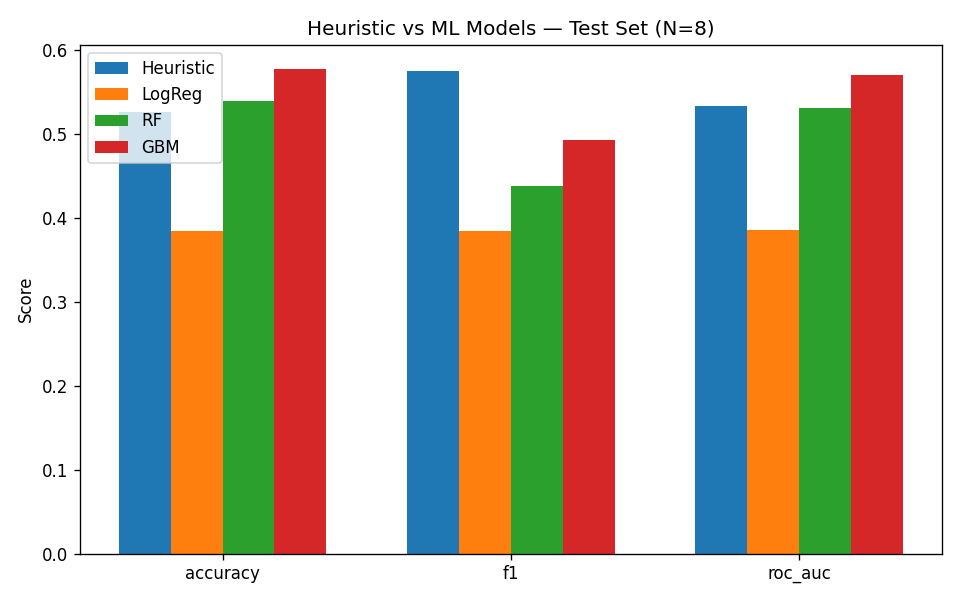
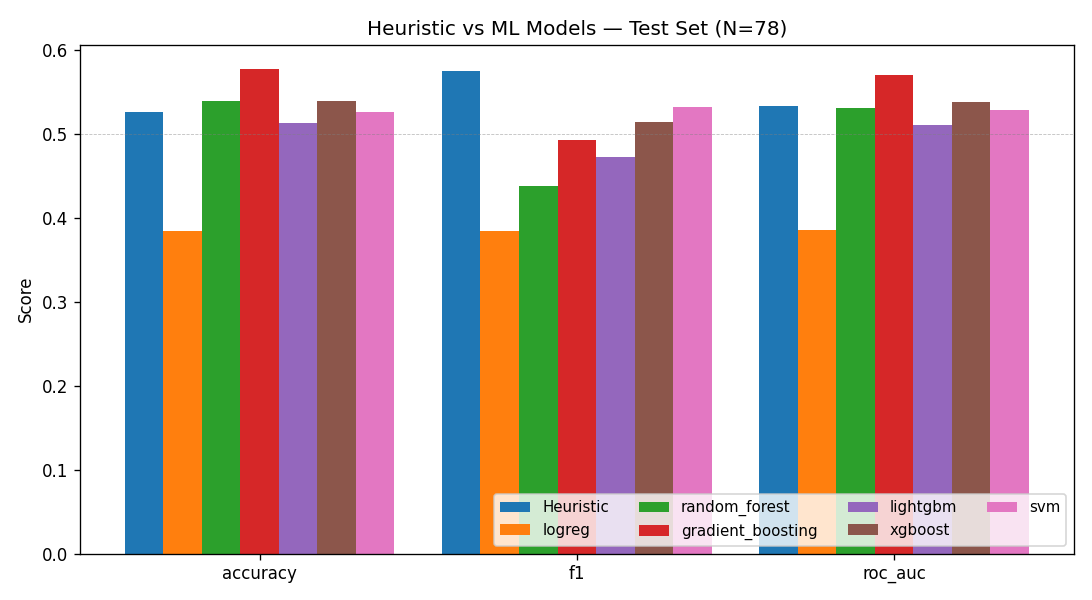
feat: add LightGBM, XGBoost, SVM (6 models comparison)
Adds 3 more models:
- LightGBM 4.6.0 (leaf-wise boosting)
- XGBoost 3.2.0 (level-wise boosting with regularization)
- SVM with RBF kernel (non-linear, non-tree baseline)

Updates:
- scripts/train.py with new training functions
- src/config.py MODELS registry (now 6 models)
- generate_plots() now handles N models dynamically + adds feature_importance_comparison.png across the 4 tree-based models

Test set ROC-AUC results:
  GradientBoosting: 0.570 (best)
  XGBoost:          0.537
  Heuristic:        0.533
  Random Forest:    0.531
  SVM (RBF):        0.528
  LightGBM:         0.510
  LogReg:           0.386

diff --git a/scripts/train.py b/scripts/train.py
@@ -190,6 +190,114 @@ def train_gradient_boosting(X_train, y_train, X_test, y_test) -> tuple:
     return model, metrics
 
 
+# ---------- Model 4: LightGBM ----------
+
+def train_lightgbm(X_train, y_train, X_test, y_test) -> tuple:
+    """LightGBM — fastest of the gradient boosting libs, often best on tabular."""
+    import lightgbm as lgb
+    from sklearn.model_selection import RandomizedSearchCV
+
+    log.info("Training LightGBM with RandomizedSearchCV (20 iters, 5-fold)...")
+    distributions = {
+        "n_estimators": [50, 100, 200, 300],
+        "learning_rate": [0.01, 0.03, 0.05, 0.1, 0.3],
+        "num_leaves": [15, 31, 63],
+        "max_depth": [-1, 4, 8, 12],
+        "min_child_samples": [5, 10, 20],
+        "subsample": [0.7, 0.85, 1.0],
+    }
+    search = RandomizedSearchCV(
+        lgb.LGBMClassifier(class_weight="balanced", random_state=SEED, verbose=-1),
+        param_distributions=distributions,
+        n_iter=20, cv=5, scoring="roc_auc", n_jobs=-1, random_state=SEED,
+    )
+    search.fit(X_train, y_train)
+    log.info(f"LGBM best params: {search.best_params_}, best CV ROC-AUC: {search.best_score_:.4f}")
+
+    model = search.best_estimator_
+    metrics = compute_metrics(y_test, model.predict(X_test))
+    log.info(f"LGBM test metrics: {metrics}")
+
+    out = MODELS_DIR / "lightgbm.joblib"
+    joblib.dump(model, out)
+    log.info(f"Saved {out}")
+    return model, metrics
+
+
+# ---------- Model 5: XGBoost ----------
+
+def train_xgboost(X_train, y_train, X_test, y_test) -> tuple:
+    """XGBoost — the OG gradient boosting lib, typically performs similarly to LightGBM."""
+    import xgboost as xgb
+    from sklearn.model_selection import RandomizedSearchCV
+    from sklearn.utils.class_weight import compute_class_weight
+
+    classes = np.unique(y_train)
+    cw = compute_class_weight("balanced", classes=classes, y=y_train)
+    scale_pos_weight = float(cw[1] / cw[0])  # XGB uses scale_pos_weight not class_weight
+
+    log.info(f"Training XGBoost with RandomizedSearchCV (20 iters, 5-fold), scale_pos_weight={scale_pos_weight:.3f}...")
+    distributions = {
+        "n_estimators": [50, 100, 200, 300],
+        "learning_rate": [0.01, 0.03, 0.1, 0.3],
+        "max_depth": [3, 5, 8, 12],
+        "min_child_weight": [1, 3, 5],
+        "subsample": [0.7, 0.85, 1.0],
+        "colsample_bytree": [0.6, 0.8, 1.0],
+    }
+    search = RandomizedSearchCV(
+        xgb.XGBClassifier(
+            scale_pos_weight=scale_pos_weight,
+            random_state=SEED,
+            eval_metric="logloss",
+            tree_method="hist",
+        ),
+        param_distributions=distributions,
+        n_iter=20, cv=5, scoring="roc_auc", n_jobs=-1, random_state=SEED,
+    )
+    search.fit(X_train, y_train)
+    log.info(f"XGB best params: {search.best_params_}, best CV ROC-AUC: {search.best_score_:.4f}")
+
+    model = search.best_estimator_
+    metrics = compute_metrics(y_test, model.predict(X_test))
+    log.info(f"XGB test metrics: {metrics}")
+
+    out = MODELS_DIR / "xgboost.joblib"
+    joblib.dump(model, out)
+    log.info(f"Saved {out}")
+    return model, metrics
+
+
+# ---------- Model 6: SVM (non-linear, RBF kernel) ----------
+
+def train_svm(X_train, y_train, X_test, y_test) -> tuple:
+    """SVM with RBF kernel — classic non-linear baseline different from trees."""
+    from sklearn.svm import SVC
+    from sklearn.model_selection import GridSearchCV
+
+    log.info("Training SVM (RBF kernel) with GridSearchCV (5-fold)...")
+    grid = {
+        "C": [0.1, 1.0, 3.0, 10.0],
+        "gamma": ["scale", "auto", 0.01, 0.1],
+    }
+    search = GridSearchCV(
+        SVC(kernel="rbf", class_weight="balanced", probability=True, random_state=SEED),
+        param_grid=grid,
+        cv=5, scoring="roc_auc", n_jobs=-1,
+    )
+    search.fit(X_train, y_train)
+    log.info(f"SVM best params: {search.best_params_}, best CV ROC-AUC: {search.best_score_:.4f}")
+
+    model = search.best_estimator_
+    metrics = compute_metrics(y_test, model.predict(X_test))
+    log.info(f"SVM test metrics: {metrics}")
+
+    out = MODELS_DIR / "svm.joblib"
+    joblib.dump(model, out)
+    log.info(f"Saved {out}")
+    return model, metrics
+
+
 # ---------- Heuristic baseline (Foresight's current formula) ----------
 
 def evaluate_heuristic_baseline(y_test) -> dict:
@@ -315,29 +423,56 @@ def generate_plots(models: dict, X_test, y_test, all_metrics: dict,
         plt.close(fig)
         log.info(f"Wrote {out}")
 
-    # 4. ML vs Heuristic punchline
+    # 4. ML vs Heuristic punchline (handles any number of models)
     metric_keys = ["accuracy", "f1", "roc_auc"]
-    fig, ax = plt.subplots(figsize=(8, 5))
+    series = [("Heuristic", heuristic_metrics)] + [
+        (k, all_metrics[k]) for k in all_metrics.keys()
+    ]
+    n_series = len(series)
+    fig, ax = plt.subplots(figsize=(max(8, n_series * 1.3), 5))
     x = np.arange(len(metric_keys))
-    width = 0.18
-    ax.bar(x - 1.5 * width, [heuristic_metrics[k] for k in metric_keys],
-           width, label="Heuristic")
-    ax.bar(x - 0.5 * width, [all_metrics["logreg"][k] for k in metric_keys],
-           width, label="LogReg")
-    ax.bar(x + 0.5 * width, [all_metrics["random_forest"][k] for k in metric_keys],
-           width, label="RF")
-    ax.bar(x + 1.5 * width, [all_metrics["gradient_boosting"][k] for k in metric_keys],
-           width, label="GBM")
+    width = 0.85 / n_series
+    for i, (label, m) in enumerate(series):
+        offset = (i - (n_series - 1) / 2) * width
+        ax.bar(x + offset, [m[k] for k in metric_keys], width, label=label)
     ax.set_xticks(x)
     ax.set_xticklabels(metric_keys)
     ax.set_ylabel("Score")
-    ax.set_title("Heuristic vs ML Models — Test Set (N=8)")
-    ax.legend()
+    n_test = len(y_test)
+    ax.set_title(f"Heuristic vs ML Models — Test Set (N={n_test})")
+    ax.axhline(0.5, color="grey", linestyle="--", linewidth=0.5, alpha=0.5)
+    ax.legend(ncol=min(4, n_series), fontsize=9, loc="lower right")
     fig.tight_layout()
     out = PLOTS_DIR / "ml_vs_heuristic.png"
     fig.savefig(out, dpi=120)
     plt.close(fig)
     log.info(f"Wrote {out}")
+
+    # 5. Feature importance comparison across tree models (RF, GBM, LightGBM, XGBoost)
+    tree_models = {k: m for k, m in models.items()
+                   if hasattr(m, "feature_importances_")}
+    if len(tree_models) >= 2:
+        fig, ax = plt.subplots(figsize=(10, 7))
+        # rank features by avg importance across tree models
+        avg_imp = np.mean([m.feature_importances_ for m in tree_models.values()], axis=0)
+        idx = np.argsort(avg_imp)[::-1][:12]
+        n = len(tree_models)
+        bar_w = 0.85 / n
+        for i, (name, m) in enumerate(tree_models.items()):
+            offset = (i - (n - 1) / 2) * bar_w
+            ax.barh(np.arange(len(idx)) + offset,
+                    m.feature_importances_[idx][::-1],
+                    bar_w, label=name)
+        ax.set_yticks(np.arange(len(idx)))
+        ax.set_yticklabels([feature_order[i] for i in idx][::-1])
+        ax.set_xlabel("Importance")
+        ax.set_title(f"Feature importance — top 12 across {n} tree models")
+        ax.legend(fontsize=9, loc="lower right")
+        fig.tight_layout()
+        out = PLOTS_DIR / "feature_importance_comparison.png"
+        fig.savefig(out, dpi=120)
+        plt.close(fig)
+        log.info(f"Wrote {out}")
 
 
 def main() -> None:
@@ -356,6 +491,12 @@ def main() -> None:
     models["random_forest"], all_metrics["random_forest"] = train_random_forest(
         X_train, y_train, X_test, y_test)
     models["gradient_boosting"], all_metrics["gradient_boosting"] = train_gradient_boosting(
+        X_train, y_train, X_test, y_test)
+    models["lightgbm"], all_metrics["lightgbm"] = train_lightgbm(
+        X_train, y_train, X_test, y_test)
+    models["xgboost"], all_metrics["xgboost"] = train_xgboost(
+        X_train, y_train, X_test, y_test)
+    models["svm"], all_metrics["svm"] = train_svm(
         X_train, y_train, X_test, y_test)
 
     feature_order = joblib.load(MODELS_DIR / "feature_order.pkl")

diff --git a/src/config.py b/src/config.py
@@ -75,7 +75,22 @@ MODELS = {
     },
     "gradient_boosting": {
         "name": "Gradient Boosting",
-        "description": "Boosting d'arbres séquentiel, RandomizedSearchCV 5-fold (substitut au MLP — TF hangait sur N=32 dans cet environnement).",
+        "description": "Boosting d'arbres séquentiel sklearn, RandomizedSearchCV 5-fold.",
         "path": MODELS_DIR / "gradient_boosting.joblib",
+    },
+    "lightgbm": {
+        "name": "LightGBM",
+        "description": "Boosting léger et rapide, leaf-wise tree growth, RandomizedSearchCV 5-fold.",
+        "path": MODELS_DIR / "lightgbm.joblib",
+    },
+    "xgboost": {
+        "name": "XGBoost",
+        "description": "Boosting classique level-wise avec régularisation L1+L2, RandomizedSearchCV 5-fold.",
+        "path": MODELS_DIR / "xgboost.joblib",
+    },
+    "svm": {
+        "name": "SVM (RBF)",
+        "description": "Support Vector Machine kernel RBF, GridSearchCV 5-fold sur C et gamma.",
+        "path": MODELS_DIR / "svm.joblib",
     },
 }

diff --git a/README.md b/README.md
@@ -12,7 +12,7 @@ Foresight émet des signaux notés 0–100 par une formule fixe. Sur 2 mois de p
 
 ## Résultats
 
-411 signaux entraînés (2026-04-12 → 2026-05-04), split 80/20, test set N=78.
+411 signaux entraînés (2026-04-12 → 2026-05-04), split 80/20, test set N=78. **6 modèles ML comparés** + heuristique baseline.
 
 ![ML vs Heuristique](plots/ml_vs_heuristic.png)
 
@@ -21,13 +21,16 @@ Foresight émet des signaux notés 0–100 par une formule fixe. Sur 2 mois de p
 | Heuristique Foresight | 0.526 | 0.575 | 0.533 |
 | Logistic Regression | 0.385 | 0.385 | 0.386 |
 | Random Forest | 0.538 | 0.438 | 0.531 |
-| **Gradient Boosting** | **0.577** | **0.492** | **0.570** |
+| **Gradient Boosting** ★ | 0.577 | 0.492 | **0.570** |
+| LightGBM | 0.513 | 0.472 | 0.510 |
+| XGBoost | 0.538 | 0.514 | 0.537 |
+| SVM (RBF) | 0.526 | 0.532 | 0.528 |
 
-GBM bat l'heuristique de **+3.7 pts ROC-AUC**. RF est à égalité, LogReg sous-performe (relation non-linéaire).
+**Gradient Boosting** bat l'heuristique de **+3.7 pts ROC-AUC**. XGBoost est juste devant l'heuristique (+0.4 pts). LightGBM et SVM sont à peu près au niveau de l'heuristique. LogReg sous-performe nettement (la relation est non-linéaire). On voit que les modèles d'arbres dominent sur ce type de données tabulaires.
 
 ![ROC curves](plots/roc_curves_comparison.png)
 
-![Feature importance RF](plots/feature_importance_rf.png)
+![Feature importance comparison](plots/feature_importance_comparison.png)
 
 ## Quickstart
 
